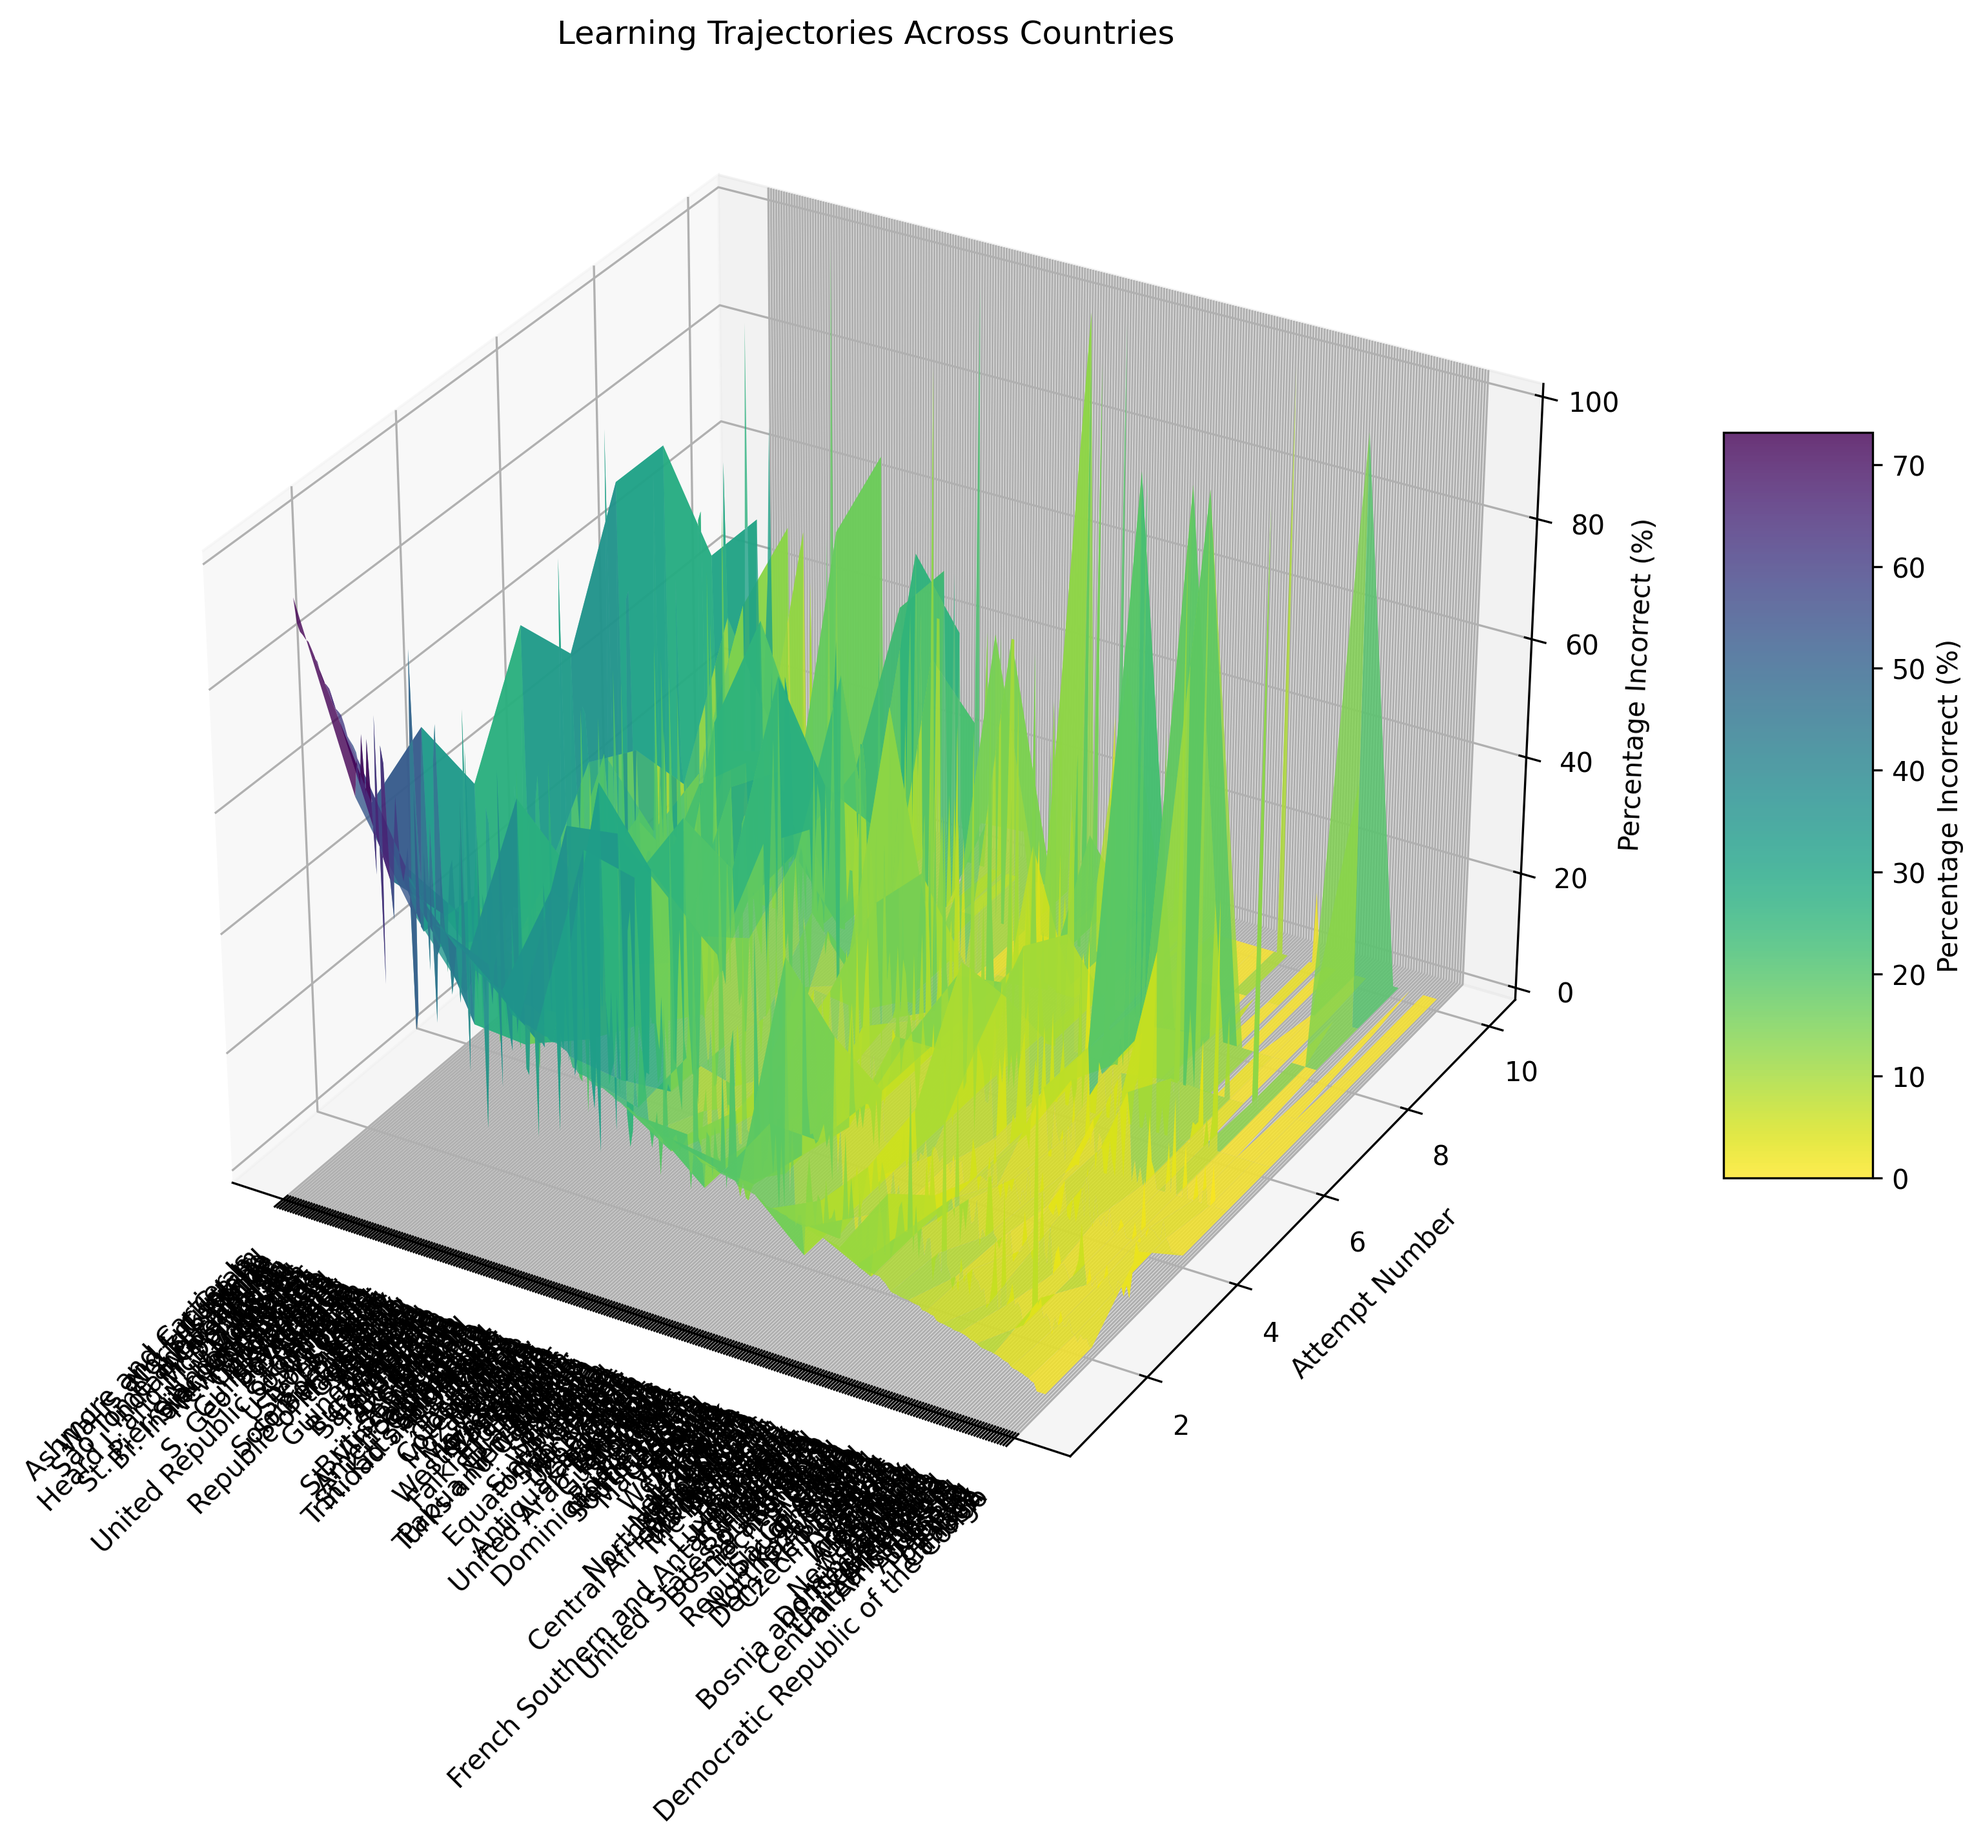
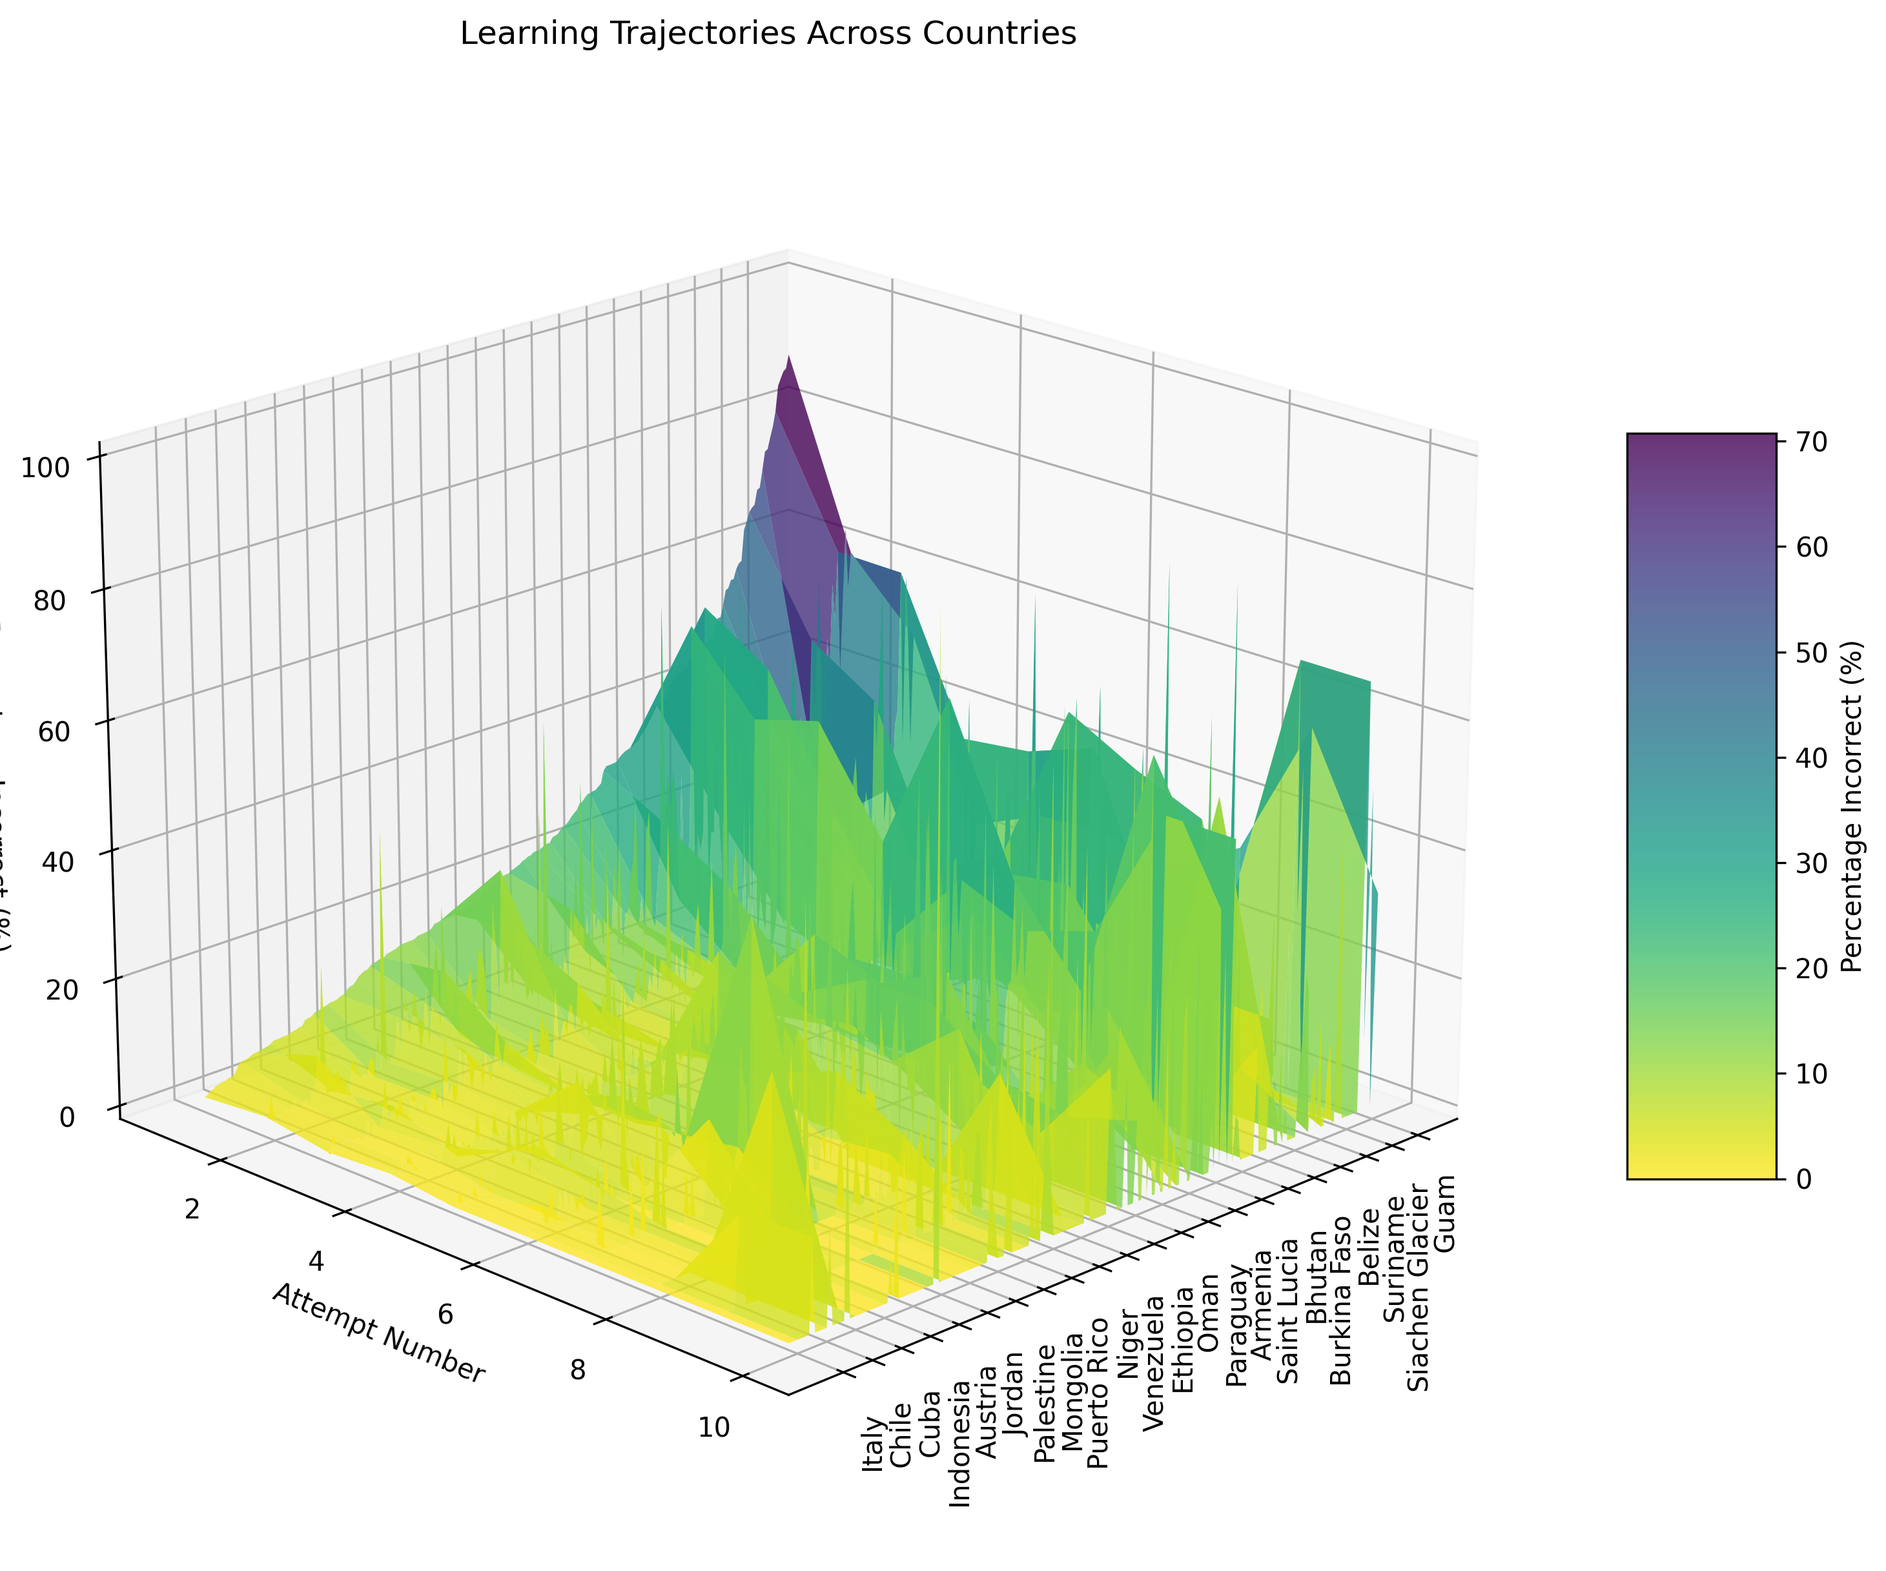
make nice looking 3d plot

diff --git a/001_learn_worldmap_hard_countries/07_trajectories_3d_plot.py b/001_learn_worldmap_hard_countries/07_trajectories_3d_plot.py
@@ -81,7 +81,7 @@ ax = fig.add_subplot(111, projection='3d')
 surf = ax.plot_surface(X, Y, Z, cmap='viridis_r', edgecolor='none', alpha=0.8)
 
 # Customize the plot
-ax.set_xlabel('Countries (sorted by first attempt performance)')
+ax.set_xlabel('')  # Remove x-axis label to prevent overlap
 ax.set_ylabel('Attempt Number')
 ax.set_zlabel('Percentage Incorrect (%)')
 ax.set_title('Learning Trajectories Across Countries')
@@ -89,12 +89,15 @@ ax.set_title('Learning Trajectories Across Countries')
 # Add colorbar
 fig.colorbar(surf, ax=ax, shrink=0.5, aspect=5, label='Percentage Incorrect (%)')
 
-# Set x-axis ticks to show country names
-ax.set_xticks(range(len(countries)))
-ax.set_xticklabels(countries, rotation=45, ha='right')
+# Set x-axis ticks to show every 10th country name
+ax.set_xticks(range(0, len(countries), 10))
+ax.set_xticklabels([countries[i] for i in range(0, len(countries), 10)], rotation=90, ha='center', va='top')
 
 # Adjust layout
 plt.tight_layout()
+
+# Rotate the view to show attempt 10 at the front and attempt 1 at the back
+ax.view_init(elev=20, azim=45)
 
 # Save plot
 os.makedirs('plots', exist_ok=True)
